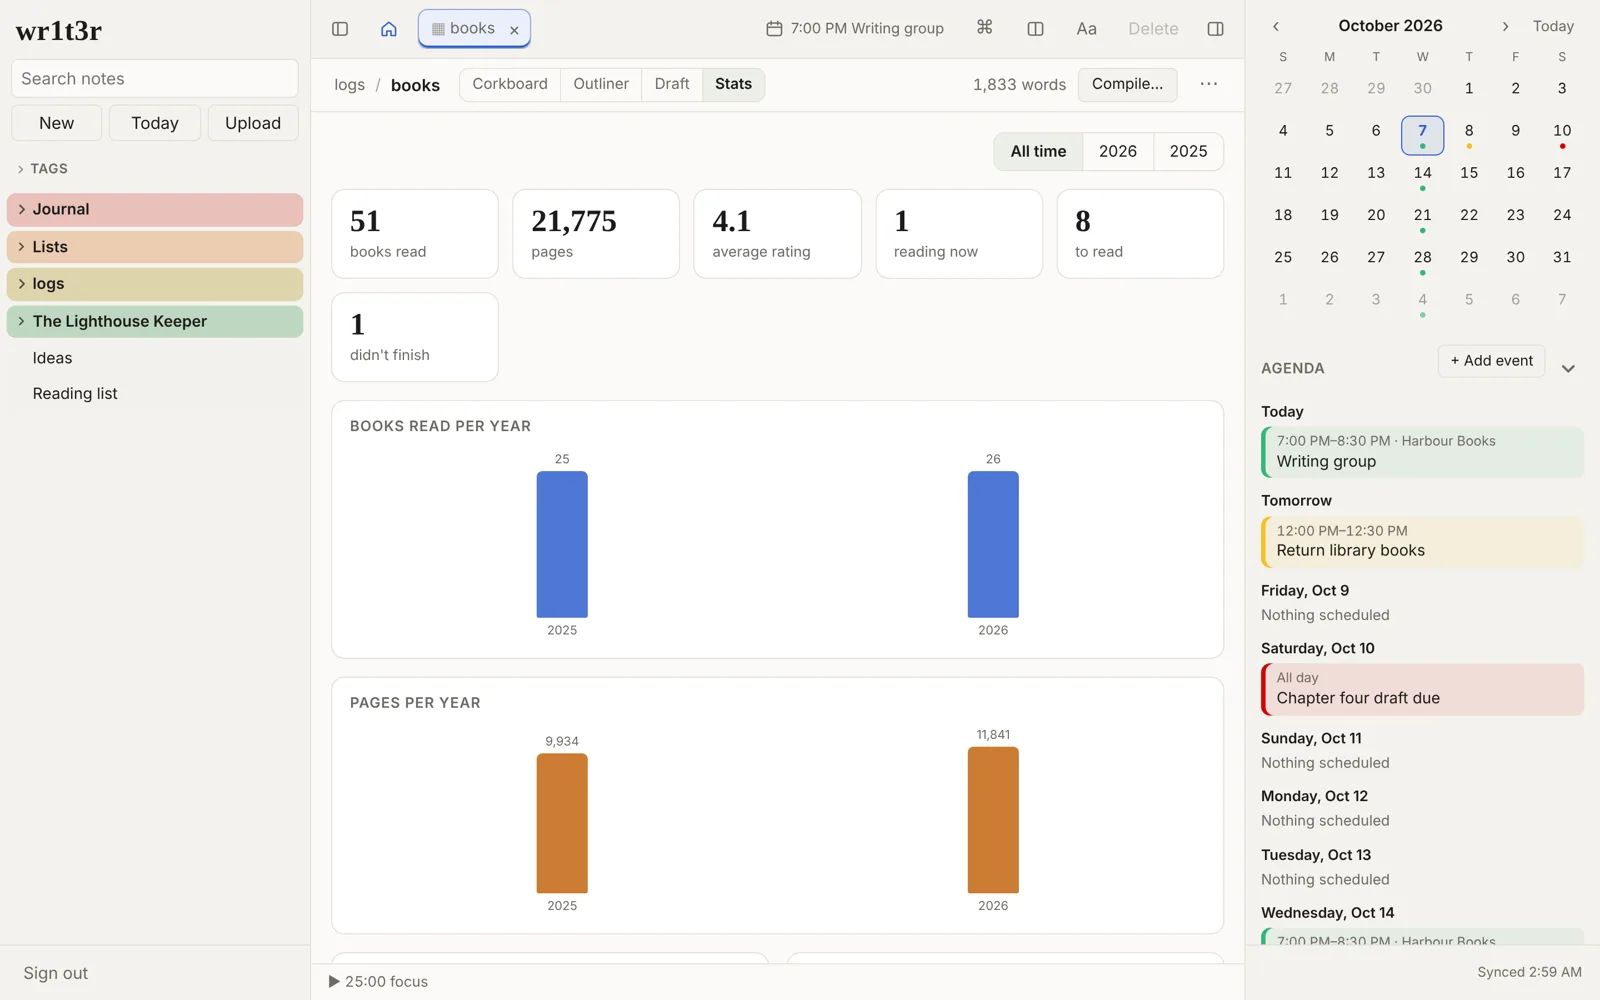
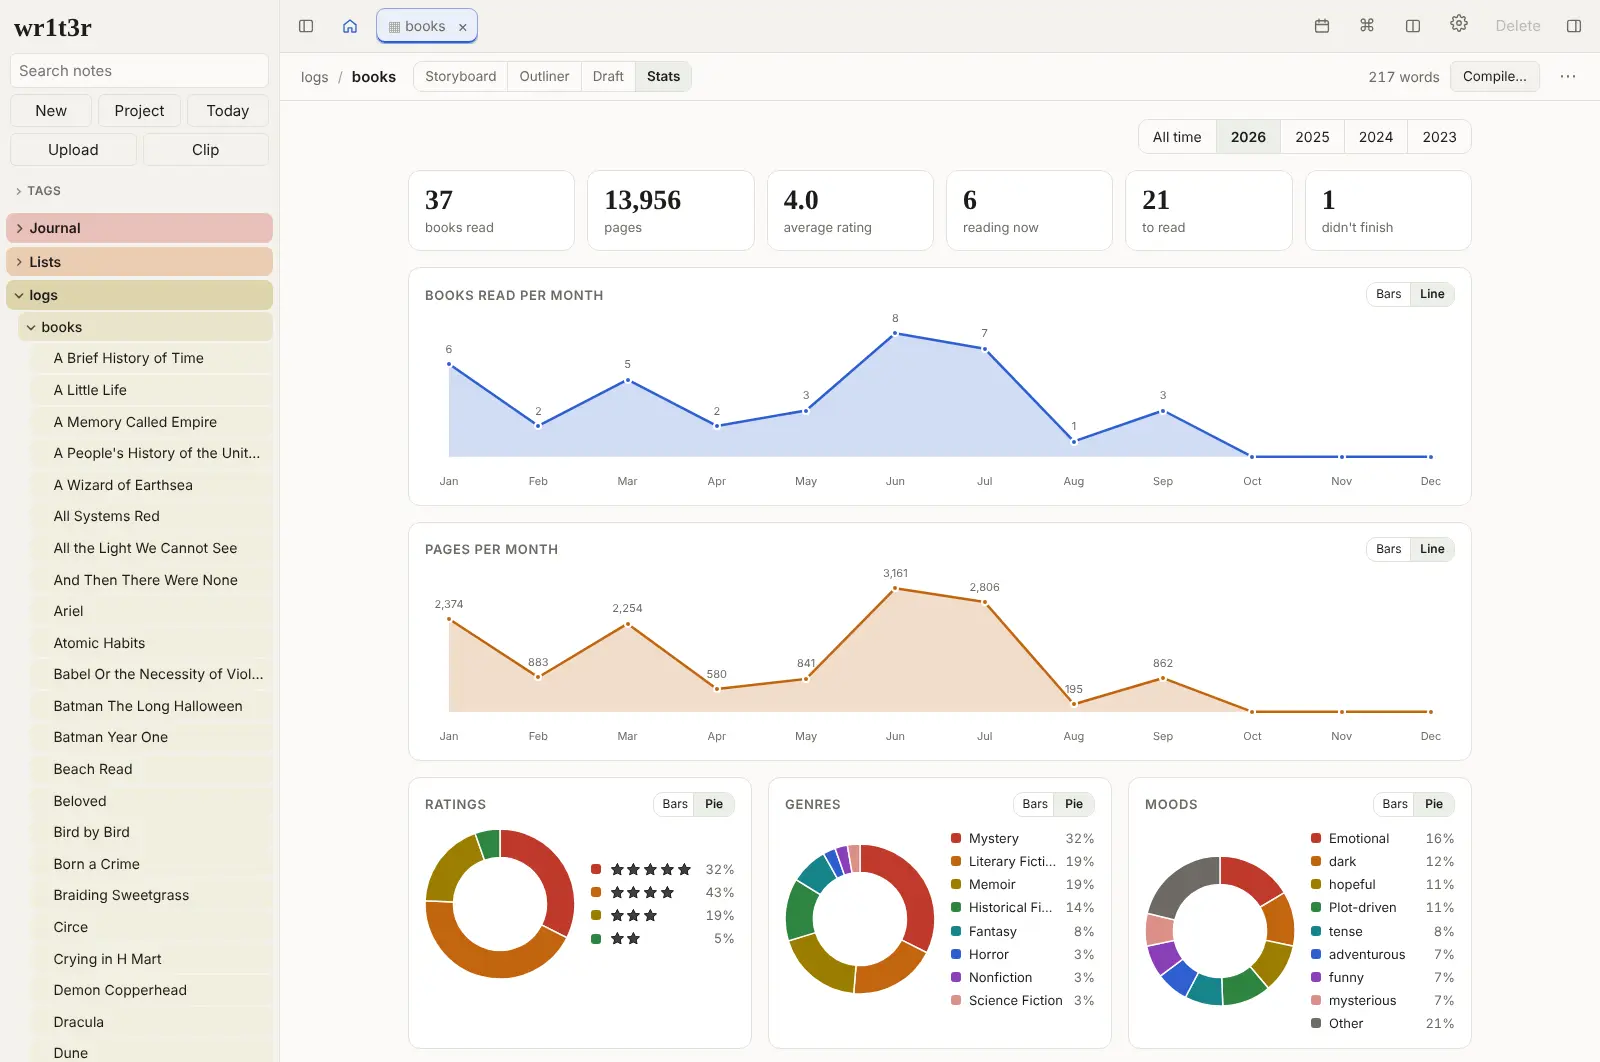
Stats: line charts stay inside their card; sales page stats image with line and pie charts
The line chart's grid row grew to the SVG's natural height on a wide
Stats page, so the line spilled over the next card and its dots drifted
off it. minmax(0, 1fr) keeps it to the chart's own height.

Claude-Session: https://claude.ai/code/session_01WdrFDkggoZJt97sZfuUTSK

diff --git a/src/style.css b/src/style.css
@@ -2351,8 +2351,8 @@ body.no-health .planner-buttons { display: none !important; }
 .stats-card-head { display: flex; align-items: center; justify-content: space-between; gap: 8px; margin-bottom: 12px; }
 .stats-card-head h3 { margin: 0; }
 .stats-kind button { padding: 3px 9px; font-size: 12px; }
-.chart-line { position: relative; height: 170px; display: grid; grid-template-rows: 1fr auto; }
-.chart-line svg { width: 100%; height: 100%; overflow: visible; }
+.chart-line { position: relative; height: 170px; display: grid; grid-template-rows: minmax(0, 1fr) auto; }
+.chart-line svg { width: 100%; height: 100%; min-height: 0; display: block; overflow: visible; }
 .chart-line .area { fill: color-mix(in srgb, var(--bc) 22%, transparent); }
 .chart-line .stroke { fill: none; stroke: var(--bc); stroke-width: 2.5; stroke-linejoin: round; stroke-linecap: round; }
 .chart-line-marks { position: absolute; inset: 0 0 18px 0; pointer-events: none; }

diff --git a/site/pages/index.md b/site/pages/index.md
@@ -126,7 +126,7 @@ On this day shows what you wrote on today's date in earlier years, on Home and o
 
 Book, film, TV and game logs add up on their own: how many you finished each year, pages read, average rating, what you're on now and what's next, in bar, line and pie charts. Pin the numbers to your Home screen as tiles, small, wide or large.
 
-![Stats for a books log: 51 books read, 21,775 pages, a 4.1 average rating, and a chart of books read per year](/shots/stats-books.webp)
+![Stats for a books log in 2026: 37 books read and 13,956 pages, line charts of books and pages read each month, and pie charts of ratings, genres and moods](/shots/stats-books.webp)
 
 ### Also on the planner
 
